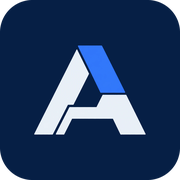
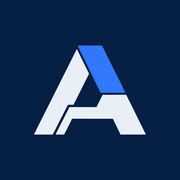
Header shows the mark alone; apply the saved theme before first paint
The header shows the mark without the word; the sign-in page keeps the
full logo and its heading is kept for screen readers only. The phone
icons are full navy squares. A script in the page's head, generated from
the rule the theme hook uses, sets the theme before the first paint, so
the sign-in page follows the saved theme.

diff --git a/web/frontend/src/lib/theme.test.ts b/web/frontend/src/lib/theme.test.ts
@@ -1,0 +1,45 @@
+import { afterEach, describe, expect, it } from "vitest"
+
+import { THEME_STORAGE_KEY, resolveTheme, themeInitScript } from "./theme"
+
+describe("resolveTheme", () => {
+  it("is dark when nothing is saved", () => {
+    expect(resolveTheme(null)).toBe("dark")
+    expect(resolveTheme("")).toBe("dark")
+  })
+
+  it("is the saved theme", () => {
+    expect(resolveTheme("dark")).toBe("dark")
+    expect(resolveTheme("light")).toBe("light")
+  })
+})
+
+// The script runs in the page before the app loads; here it runs as the
+// browser would run it, from its text alone.
+describe("themeInitScript", () => {
+  const run = () => new Function(themeInitScript())()
+  const isDark = () => document.documentElement.classList.contains("dark")
+
+  afterEach(() => {
+    localStorage.clear()
+    document.documentElement.classList.remove("dark")
+  })
+
+  it("sets the dark theme when nothing is saved", () => {
+    run()
+    expect(isDark()).toBe(true)
+  })
+
+  it("sets the saved dark theme", () => {
+    localStorage.setItem(THEME_STORAGE_KEY, "dark")
+    run()
+    expect(isDark()).toBe(true)
+  })
+
+  it("sets the saved light theme", () => {
+    document.documentElement.classList.add("dark")
+    localStorage.setItem(THEME_STORAGE_KEY, "light")
+    run()
+    expect(isDark()).toBe(false)
+  })
+})

diff --git a/web/frontend/src/components/logo.tsx b/web/frontend/src/components/logo.tsx
@@ -1,23 +1,26 @@
 interface LogoProps {
+  /** "full" is the mark and the word; "mark" is the mark alone. */
+  variant: "full" | "mark"
   className?: string
   /** The product name where the logo is the only name shown; empty otherwise. */
   alt: string
 }
 
-// Logo is the full logo (mark and word). Two files, one per theme, switched in
-// CSS by the same `dark` class that themes the page, so the logo always
-// matches the background it is drawn on.
-export function Logo({ className = "", alt }: LogoProps) {
+// Logo draws the logo in the version for the current theme. Each variant has
+// two files, switched in CSS by the same `dark` class that themes the page, so
+// the logo always matches the background it is drawn on.
+export function Logo({ variant, className = "", alt }: LogoProps) {
+  const file = variant === "full" ? "logo" : "mark"
   return (
     <>
       <img
         className={`w-auto dark:hidden ${className}`}
-        src="/logo-light.png"
+        src={`/${file}-light.png`}
         alt={alt}
       />
       <img
         className={`hidden w-auto dark:block ${className}`}
-        src="/logo-dark.png"
+        src={`/${file}-dark.png`}
         alt={alt}
       />
     </>

diff --git a/web/frontend/src/lib/theme.ts b/web/frontend/src/lib/theme.ts
@@ -1,0 +1,22 @@
+export type Theme = "light" | "dark"
+
+/** The localStorage key the chosen theme is saved under. */
+export const THEME_STORAGE_KEY = "theme"
+
+// resolveTheme is the one rule for the theme: the saved one, dark when none is
+// saved. It must stay self-contained (no imports, no outer names): its source
+// is copied into the page by themeInitScript.
+export function resolveTheme(stored: string | null): Theme {
+  return !stored || stored === "dark" ? "dark" : "light"
+}
+
+// themeInitScript is the script vite.config.ts puts in the page's <head>. It
+// sets the theme before the first paint, on every page, so no page shows the
+// wrong theme while the app loads.
+export function themeInitScript(): string {
+  return (
+    `document.documentElement.classList.toggle("dark",` +
+    `(${resolveTheme.toString()})` +
+    `(localStorage.getItem(${JSON.stringify(THEME_STORAGE_KEY)}))==="dark")`
+  )
+}

diff --git a/web/frontend/src/hooks/use-theme.ts b/web/frontend/src/hooks/use-theme.ts
@@ -1,10 +1,10 @@
 import { useCallback, useEffect, useState } from "react"
 
-type Theme = "light" | "dark"
+import { THEME_STORAGE_KEY, type Theme, resolveTheme } from "@/lib/theme"
 
 function getStoredTheme(): Theme {
-  if (typeof window === "undefined") return "dark"
-  return (localStorage.getItem("theme") as Theme) || "dark"
+  if (typeof window === "undefined") return resolveTheme(null)
+  return resolveTheme(localStorage.getItem(THEME_STORAGE_KEY))
 }
 
 export function useTheme() {
@@ -17,7 +17,7 @@ export function useTheme() {
     } else {
       root.classList.remove("dark")
     }
-    localStorage.setItem("theme", theme)
+    localStorage.setItem(THEME_STORAGE_KEY, theme)
   }, [theme])
 
   const toggleTheme = useCallback(() => {

diff --git a/web/frontend/vite.config.ts b/web/frontend/vite.config.ts
@@ -8,6 +8,8 @@ import react from "@vitejs/plugin-react"
 // that block as an unknown property.
 import { defineConfig } from "vitest/config"
 
+import { themeInitScript } from "./src/lib/theme"
+
 // https://vite.dev/config/
 export default defineConfig({
   plugins: [
@@ -17,6 +19,18 @@ export default defineConfig({
     }),
     react(),
     tailwindcss(),
+    // The theme is set by a script in <head>, before the first paint. Its
+    // text comes from src/lib/theme.ts, the same rule the app uses.
+    {
+      name: "theme-init",
+      transformIndexHtml: () => [
+        {
+          tag: "script",
+          children: themeInitScript(),
+          injectTo: "head-prepend",
+        },
+      ],
+    },
   ],
   resolve: {
     alias: {

diff --git a/web/frontend/src/components/auth/login-page.tsx b/web/frontend/src/components/auth/login-page.tsx
@@ -75,11 +75,9 @@ export function LoginPage({ next }: LoginPageProps) {
   return (
     <div className="flex min-h-dvh items-center justify-center px-4">
       <div className="border-border/60 bg-card w-full max-w-sm rounded-xl border p-8 shadow-sm">
-        <div className="mb-6 flex flex-col items-center gap-3">
-          <Logo className="h-24" alt="" />
-          <h1 className="text-lg font-semibold">
-            {name || t("auth.login.heading")}
-          </h1>
+        <div className="mb-6 flex justify-center">
+          <Logo variant="full" className="h-24" alt="" />
+          <h1 className="sr-only">{name || t("auth.login.heading")}</h1>
         </div>
 
         {statusQuery.isPending && (

diff --git a/web/frontend/src/components/app-header.tsx b/web/frontend/src/components/app-header.tsx
@@ -19,7 +19,7 @@ export function AppHeader() {
         </SidebarTrigger>
         <div className="hidden shrink-0 items-center sm:flex">
           <Link to="/">
-            <Logo className="h-10" alt={name} />
+            <Logo variant="mark" className="h-10" alt={name} />
           </Link>
         </div>
       </div>

diff --git a/docs/webui-test-plan.md b/docs/webui-test-plan.md
@@ -3,7 +3,7 @@
 Regression coverage for the Agency web interface. Every step below has an ID, a
 process, and an expected result, so it can be followed by hand — and every one is
 also automated in `tests/frontend-e2e.mjs`, which prints the same IDs. There are
-185 checks in all; the runner prints the same tally at the end.
+186 checks in all; the runner prints the same tally at the end.
 
 The WebUI holds no product name of its own: it shows the names the server
 fills into the page it serves (title and `product-*` meta tags) and returns
@@ -328,7 +328,7 @@ deletes it again. Nothing outside those domains is touched.
 
 ## P. Authentication
 
-The login page, the refusals, the session, and sign-out. P1, P2, P5, P6 and P7
+The login page, the refusals, the session, and sign-out. P1, P2, P5, P6, P7 and P8
 run in browser contexts of their own so the suite's session is untouched; P2
 records one failed login, which the limiter forgets on the next success (P5).
 
@@ -343,13 +343,14 @@ dev instance without stopping it; it is covered by unit tests only
 
 | ID | Process | Expected |
 |---|---|---|
-| P1 | In a fresh browser (no session), load `/agents` | Redirected to `/login?next=%2Fagents`. The card is headed by the product name (not "Sign in"), and the browser tab shows it as the title, shows the **Username** and **Password** fields and a **Sign in** button, and does **not** carry the line *Use the admin account created on the server*; no console errors. The frontend gate remembers where the visitor was going, so a bookmark still works after signing in. (With no admin account the same page instead reads **No admin account** and tells you to run `<binary_name> admin` on the server) |
+| P1 | In a fresh browser (no session), load `/agents` | Redirected to `/login?next=%2Fagents`. The card shows the logo, its heading (read by screen readers, not shown) is the product name (not "Sign in"), and the browser tab shows it as the title; the card shows the **Username** and **Password** fields and a **Sign in** button, and does **not** carry the line *Use the admin account created on the server*; no console errors. The frontend gate remembers where the visitor was going, so a bookmark still works after signing in. (With no admin account the same page instead reads **No admin account** and tells you to run `<binary_name> admin` on the server) |
 | P2 | On `/login`, enter the right username with a wrong password, **Sign in** | The form stays on `/login` and shows **Invalid username or password.** — one message for a bad username and a bad password alike, so the form never confirms which half was right. `GET /api/auth/status` from that browser still says `authenticated: false` |
 | P3 | **anonymous** `curl -i $BASE/api/config` | `401` with a JSON `error` (`authentication required`, or `no admin account` with a `<binary_name> admin` hint) and **no configuration in the body** |
 | P4 | `curl -b jar $BASE/api/auth/status` | `{"configured":true,"authenticated":true,"username":"<admin>"}` — the username is the one that signed in |
 | P5 | Sign in in a second browser, open `/agents`, click **Sign out** in the sidebar footer | The browser lands on `/login` with the form showing. From that browser `GET /api/auth/status` is `authenticated: false` and `GET /api/config` is `401`: the session ended on the server, not just in the browser |
 | P6 | Sign in in a second browser, open `/agents`, delete the session cookie (DevTools → Application → Cookies, or `context.clearCookies()`), then open the **Models** group in the sidebar and click **Models** | The browser lands on `/login?next=%2Fmodels` with the login form showing; no error state (`data-testid=route-error`) is rendered and the only console entry is the browser's own note about the refused (401) request. Signing in returns to `/models` |
 | P7 | Sign in in a second browser, open `/` (chat), wait for the socket to open, delete the session cookie as in P6, then close the socket (from the console: the page's WebSocket, or restart Agency) | The page goes to `/login` within a few seconds and stays there: at most one further `/webui/ws` attempt after the redirect, no retry storm, no console errors |
+| P8 | In a fresh browser (no session), load `/login`, set `localStorage.theme` to `light` (DevTools → Application → Local storage) and reload; then set it to `dark` and reload | With `light` the page is light (`<html>` has no `dark` class) and shows the logo for light backgrounds (`/logo-light.png`); with `dark` the page is dark (`<html class="dark">`) and shows the logo for dark backgrounds (`/logo-dark.png`). The saved theme is applied by a script in the page's `<head>`, before the app loads, so the login page (which has no theme switch) follows it too; no console errors |
 
 ## Q. Audit page
 

diff --git a/CLAUDE.md b/CLAUDE.md
@@ -1370,7 +1370,7 @@ The suite logs in first (the WebUI and `/api/*` require the admin account), so
 the dev instance needs one (`agency admin`) and the two variables must be
 exported; it exits 2 with a hint otherwise.
 
-- **The plan is `docs/webui-test-plan.md`** — 185 numbered checks, each with a
+- **The plan is `docs/webui-test-plan.md`** — 186 numbered checks, each with a
   process and an expected result, followable by hand. `tests/frontend-e2e.mjs`
   executes it and prints the same step IDs. Keep the two in step: a step added
   to one belongs in the other.

diff --git a/CHANGELOG.md b/CHANGELOG.md
@@ -133,7 +133,7 @@
 ### Changed
 
 - **New logo and icons.** The WebUI, the browser tab and the Windows program
-  show the new Agency logo.
+  show the new Agency logo, and the sign-in page now follows the saved theme.
 - **`apt install agency` sets up a complete system install.** The package
   creates the `agency` system account (no password), creates `/opt/agency`
   owned by it, and starts the service as that account. There is no
